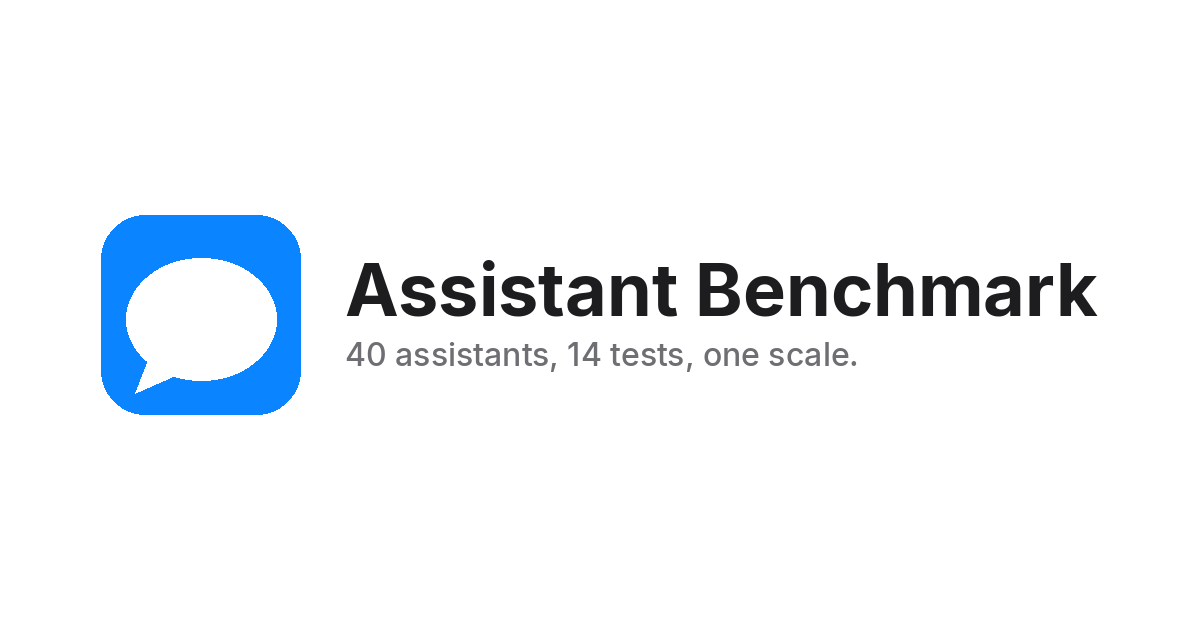
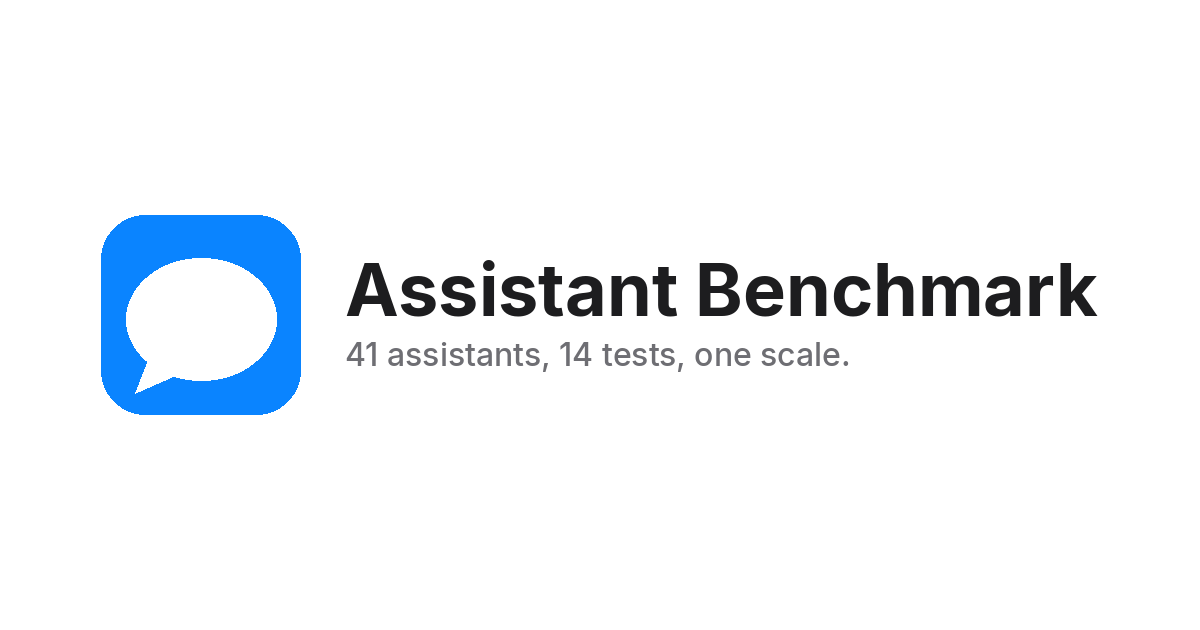
Add Muse (Meta's personal AI agent, launched 2026-09-08)

Changed region(s): [[0.3083, 0.5429, 0.7092, 0.6032]]

diff --git a/data/agents/muse/summary.md b/data/agents/muse/summary.md
@@ -1,0 +1,3 @@
+# Muse
+
+Meta's personal AI agent, announced 2026-09-08. Runs in a per-user cloud VM (Muse Secure VM); can browse, fill forms, check out with Link by Stripe. Available in the Muse app, muse.ai and WhatsApp in the US. No public feedback collected yet.
